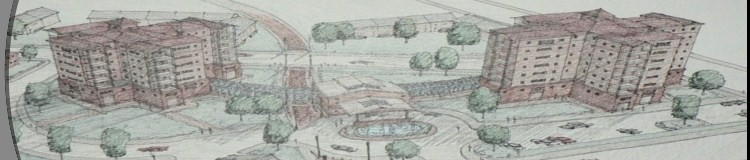
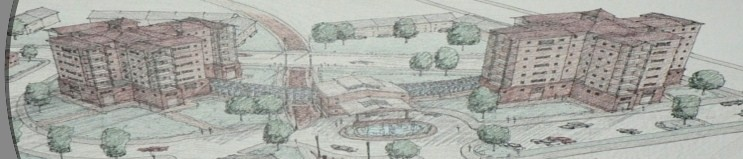
added footer image

diff --git a/src/components/Footer/index.js b/src/components/Footer/index.js
@@ -1,19 +1,21 @@
 import React from "react";
 import Row from "react-bootstrap/Row";
-import Nav from "react-bootstrap/Nav";
-
-import Video4 from "../../assets/photos/Footer.jpg";
+// import Nav from "react-bootstrap/Nav";
+import Image from "react-bootstrap/Image";
+import Container from "react-bootstrap/Container";
+import "./style.css"
+import footerImg from "../../assets/photos/Footer.jpg";
 
 function PageFooter() {
+  return (
 
-    return(
-        <footer className="Footer">
-        <video autoPlay loop muted id="video" className="footerVid">
-          <source src={Video4} type="video/mp4" />
-        </video>
-        </footer>
-    );
-};
-
+    // <Row className="FooterRow">
+      <footer className="Footer">
+        <Image className="footerVid" src={footerImg} alt="footer image">
+          {/* <source src={footerImg} /> */}
+        </Image>
+      </footer>
+  );
+}
 
 export default PageFooter;

diff --git a/src/components/Footer/style.css b/src/components/Footer/style.css
@@ -1,7 +1,6 @@
-
 .Footer {
-    position: relative;
-    overflow: hidden;
+    /* position: relative; */
+    /* overflow: hidden; */
     align-items: center;
     justify-content: center;
     padding: 0px;
@@ -9,14 +8,19 @@
     font-weight: bold;
     height: 125px;
     width: 100%;
+    border-top: 3px solid black;
 }
 
 .footerVid {
+    width: -webkit-fill-available;
     object-fit: cover;
-  position: absolute;
-  top: 0;
-  left: 0;
-  height: 100%;
-  width: 100%;
-  padding: 0px;
-}
+      top: 0;
+      left: 0;
+      height: auto;
+      padding: 0px;
+} 
+
+/* .FooterRow {
+    padding: 0px;
+    margin: 0px;
+} */
